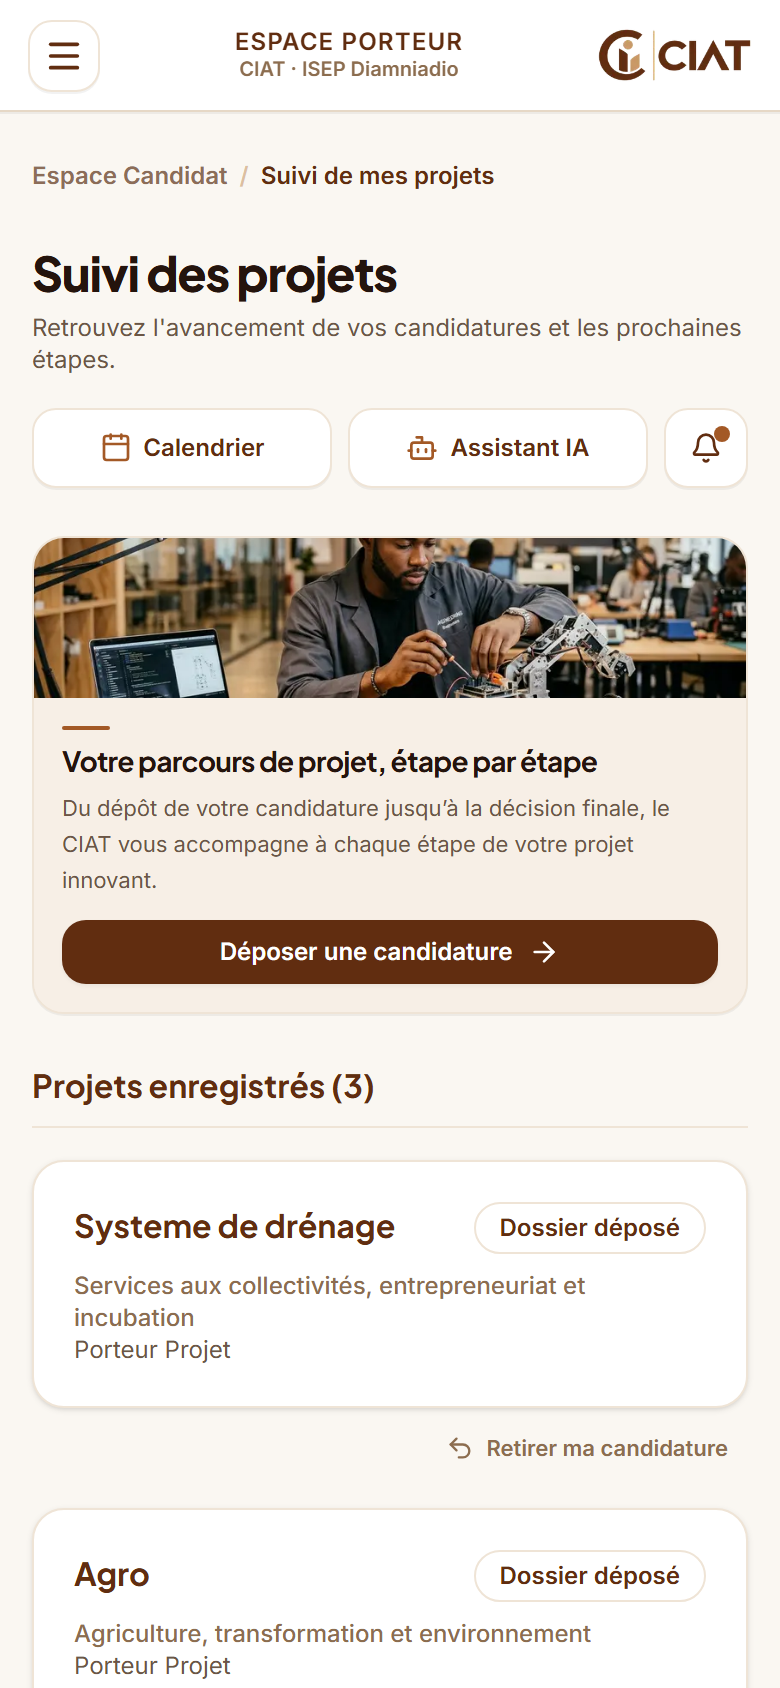
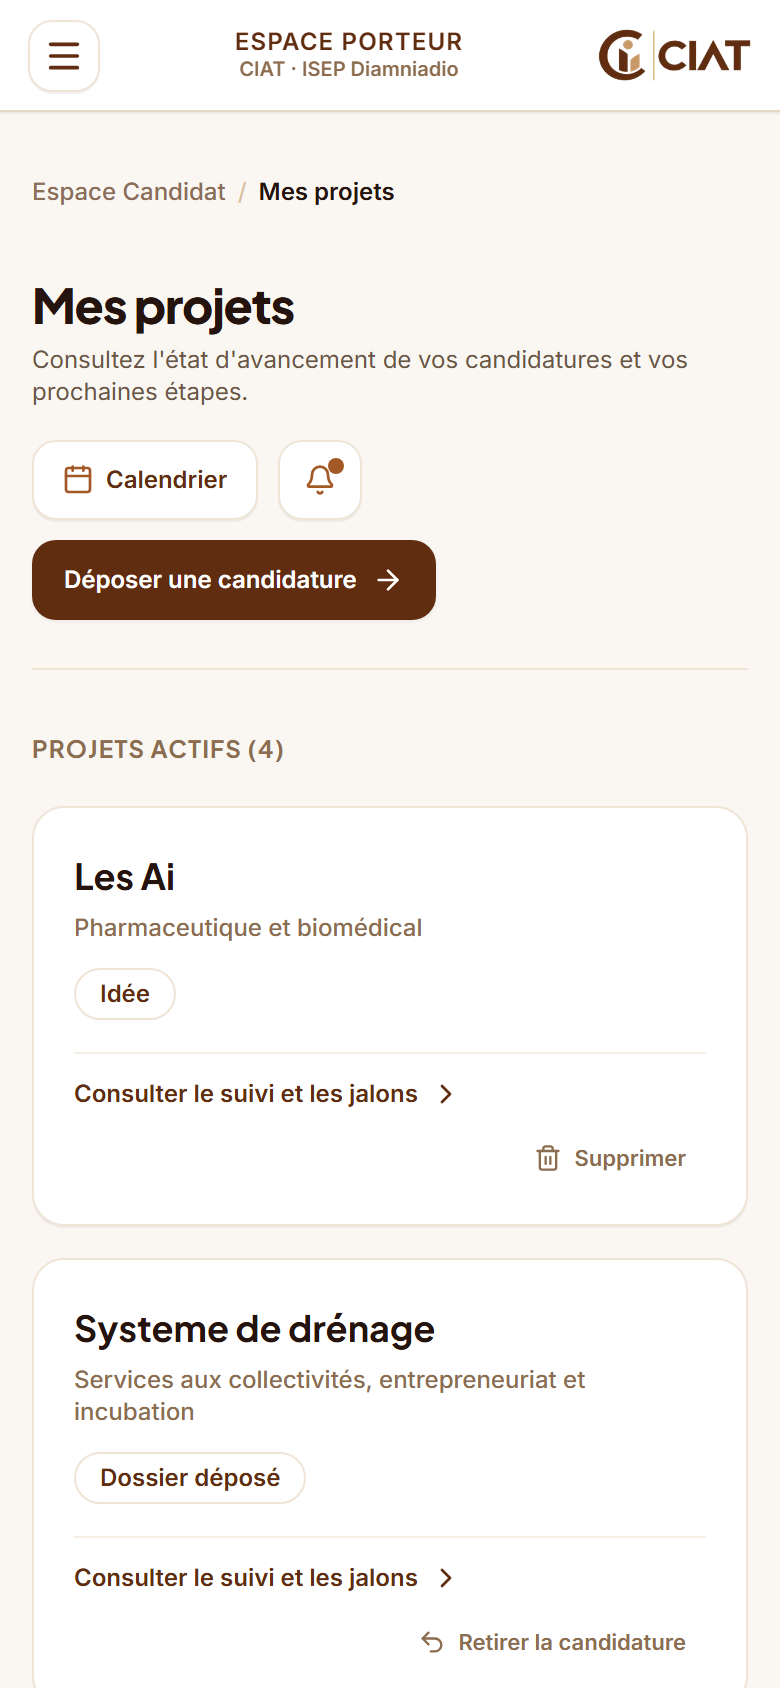
docs(maquettes): actualisation des captures desktop et mobile des pages allégees

diff --git a/docs/maquettes/INDEX.html b/docs/maquettes/INDEX.html
@@ -188,7 +188,7 @@
       </div>
       <h1>Revue des 8 Vues & Modales — Espace Candidat & Porteur de Projet</h1>
       <p class="subtitle">
-        Validation visuelle officielle des pages de l'espace porteur développées pour le CIAT, incluant la vue Calendrier et la modale de suppression/retrait. Toutes les captures sont certifiées conformes au rôle <strong>Porteur de projet</strong> (session <code>porteur@ciat.sn</code>) en résolutions Desktop (1440 × 900) et Mobile (390 × 844 px).
+        Validation visuelle officielle des pages de l'espace porteur développées pour le CIAT, modernisées, allégées et centrées sur les besoins stricts du candidat. Intègre la vue Calendrier et la modale de suppression/retrait. Toutes les captures sont certifiées conformes au rôle <strong>Porteur de projet</strong> (session <code>porteur@ciat.sn</code>) en résolutions Desktop (1440 × 900) et Mobile (390 × 844 px).
       </p>
 
       <div class="meta-grid">
@@ -232,7 +232,7 @@
         </div>
       </div>
       <p class="screen-desc">
-        Parcours de soumission d'un projet en 3 étapes (Informations, Pièces justificatives avec téléversement et jauge de complétude, Récapitulatif et validation finale). Guide d'aide contextuelle à droite.
+        Parcours de soumission d'un projet en 3 étapes (Informations, Pièces justificatives avec téléversement et jauge de complétude, Récapitulatif et validation finale). Formulaire ergonomique centré et épuré (max-w-3xl), supprimant les panneaux latéraux encombrants pour un confort de saisie optimal sur Desktop et Mobile.
       </p>
       <div class="captures-row">
         <div class="preview-card">
@@ -268,7 +268,7 @@
         </div>
       </div>
       <p class="screen-desc">
-        Portefeuille personnel du porteur connecté : liste filtrée affichant uniquement ses projets (ici <em>Projet Pilote CIAT</em>, ID 67), statut du dossier et jalons associés.
+        Portefeuille personnel du porteur connecté : conteneur centré (max-w-4xl) avec typographie épurée, fil d'Ariane discret, bouton d'action principal bien en évidence (+ Déposer une candidature) et cartes de projets synthétiques sans fioritures décoratives avec statut et bouton de retrait sécurisé.
       </p>
       <div class="captures-row">
         <div class="preview-card">
@@ -340,7 +340,7 @@
         </div>
       </div>
       <p class="screen-desc">
-        Cockpit de suivi individuel : objectifs, jalons avec preuve, mentor référent, bilans semestriels et téléchargement des comptes rendus (formats Excel et PDF).
+        Cockpit de suivi individuel centré (max-w-5xl) : indicateur de progression 4 étapes sobre et lisible, grille équilibrée en 3 cartes clés (Mentor assigné, Objectifs de l'accompagnement, Jalons clés avec téléversement de preuves) et téléchargement des comptes rendus officiels (formats Excel et PDF).
       </p>
       <div class="captures-row">
         <div class="preview-card">
